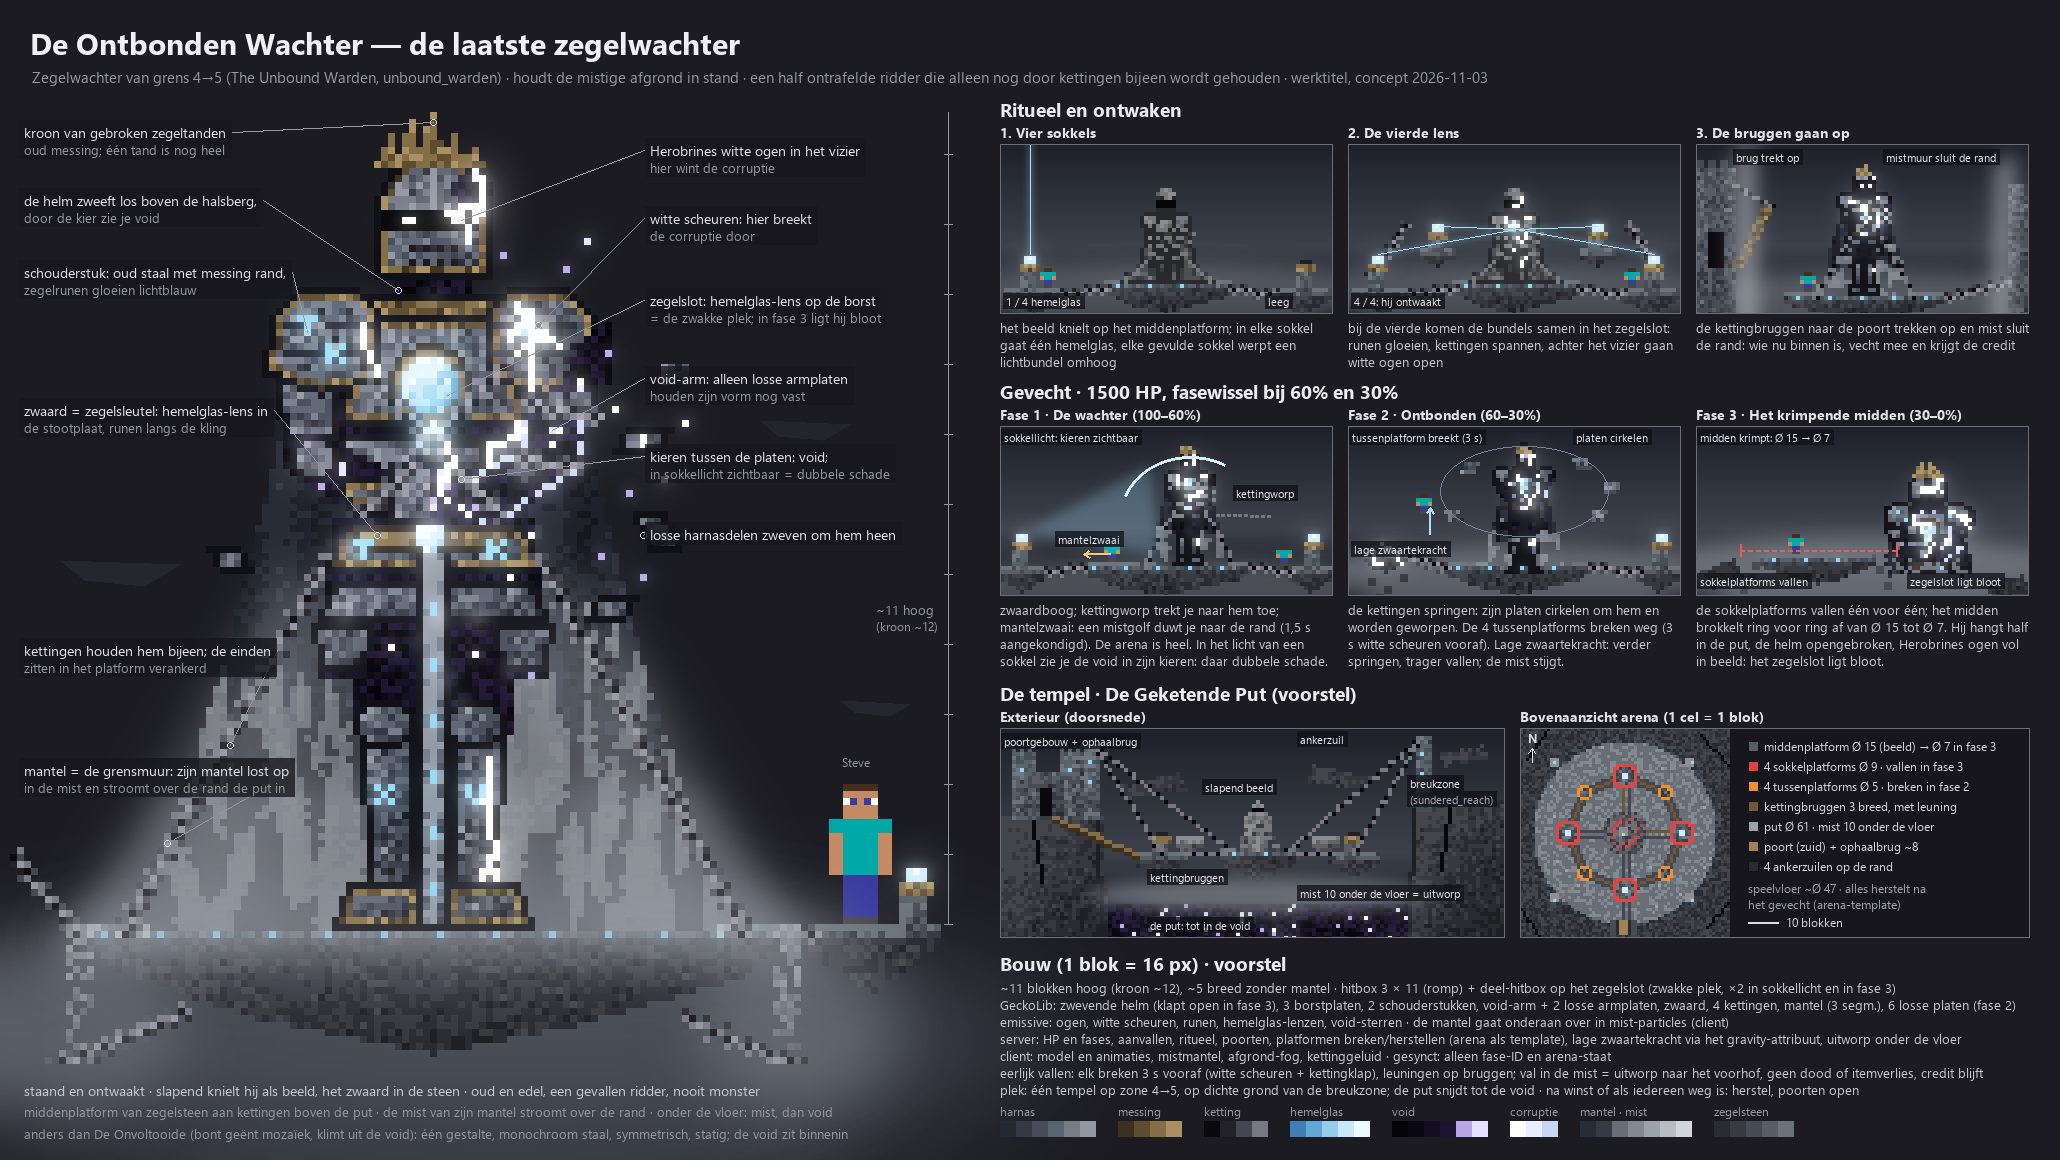
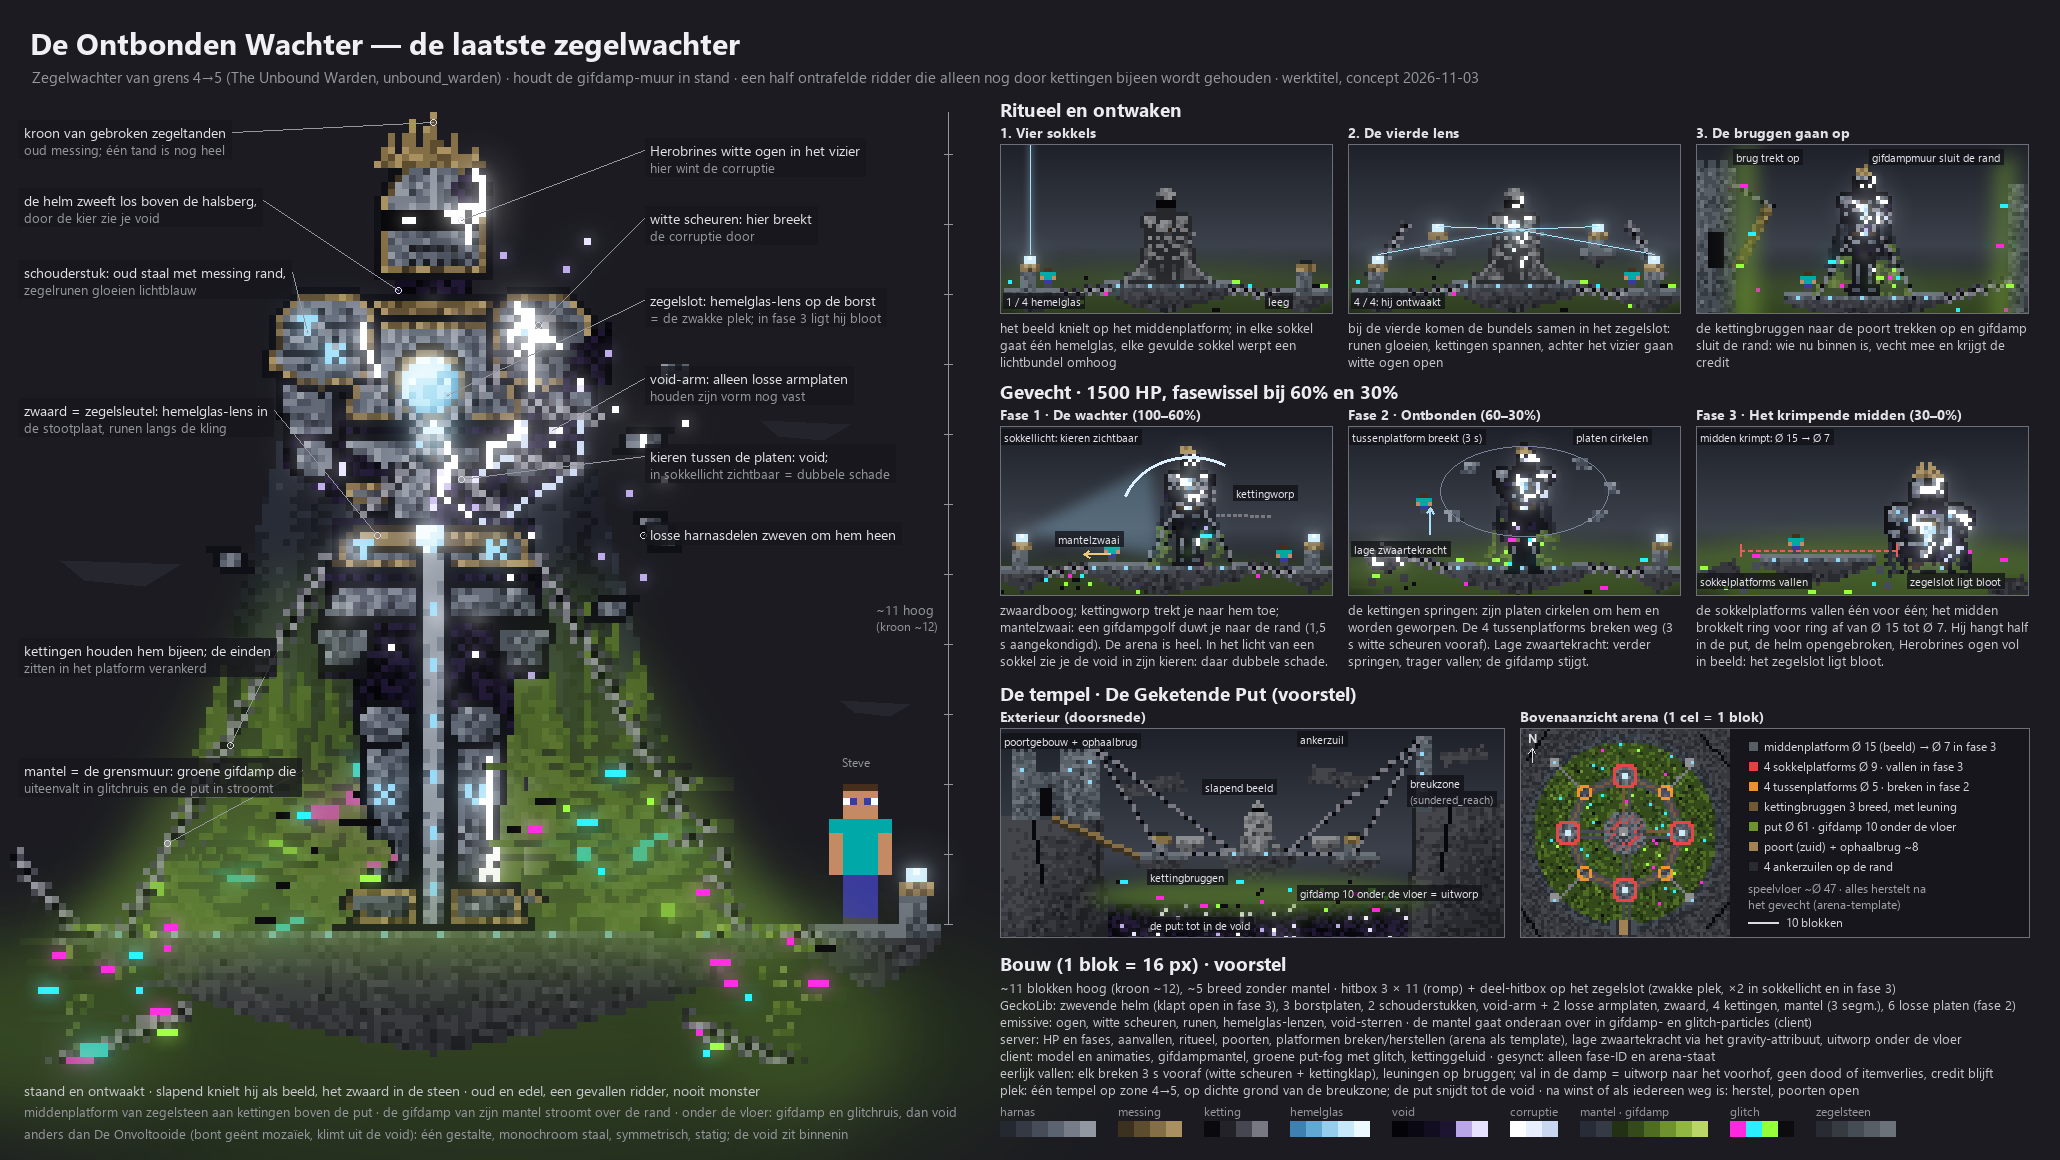
mobs: seal warden 4-5 plate follows the poison-to-glitch wall
Docs only. The Unbound Warden's mantle and pit now use the green
poison mist that breaks into glitch noise, as the phase 1 wall does.

Claude-Session: https://claude.ai/code/session_0189gpr1JxirANbocpQ9xxZN

diff --git a/docs/design/fase-4-zegelwachters-concept.md b/docs/design/fase-4-zegelwachters-concept.md
@@ -49,4 +49,4 @@
 | 1→2 | **De Sluierwachter** (`the_veil_warden`) | ![](img/zegelwachter-grens1-2-de-sluierwachter.png) | gevallen mistridder ~9,5 blok, sluiermantel = mist, lantaarn met zielkristal; fasen: zwaard/lantaarn → hij wordt de mist (alleen in sokkellicht vast) → sluier gescheurd, middenvloer stort in. Tempel: Sluierklooster half verzonken in een droge geul van `withered_expanse`, binnenhof 31×31 |
 | 2→3 | **De Zonnewachter** (`sun_warden`) | ![](img/zegelwachter-grens2-3-de-zonnewachter.png) | vierarmige zandstenen schildwacht ~11 blok, gebroken zonneschijf, glaive van zonnesteen; fasen: de wacht → duinen stijgen, zuilen storten in, sokkel geeft dauwgolf → stormmuur kruipt naar binnen (r 15 → 8). Tempel: uitgehouwen in een kloofwand, arena Ø 31 op de kloofbodem |
 | 3→4 | **De Asgezworene** (`ashsworn`) | ![](img/zegelwachter-grens3-4-de-asgezworene.png) | zwartgeblakerde bronzen koning ~11 blok, lavazwaard, lege bronkruik (het gestolen water); fasen: aswolk (bellen rond de sokkels) → lavakanalen, koudlavabruggen bij de sokkels → het water breekt in (stoom, glad). Tempel van de Gebroken Bron: op de rand van een hoefijzerkloof (`steam_fens` → `verdant_falls`), arena Ø 31 |
-| 4→5 | **De Ontbonden Wachter** (`unbound_warden`) | ![](img/zegelwachter-grens4-5-de-ontbonden-wachter.png) | half ontrafelde ridder ~11 blok, door kettingen bijeen, void in de kieren, hemelglaslens als zegelslot; fasen: de wachter → platen cirkelen, tussenplatforms breken (3 s vooraf), lage zwaartekracht → sokkelplatforms vallen, midden krimpt Ø 15 → 7. Tempel De Geketende Put: platforms aan kettingen in een zelf uitgesneden put tot de void in de breukzone |
+| 4→5 | **De Ontbonden Wachter** (`unbound_warden`) | ![](img/zegelwachter-grens4-5-de-ontbonden-wachter.png) | half ontrafelde ridder ~11 blok, door kettingen bijeen, void in de kieren, hemelglaslens als zegelslot; fasen: de wachter → platen cirkelen, tussenplatforms breken (3 s vooraf), lage zwaartekracht → sokkelplatforms vallen, midden krimpt Ø 15 → 7. Tempel De Geketende Put: platforms aan kettingen in een zelf uitgesneden put tot de void in de breukzone; mantel en put: groene gifdamp die uiteenvalt in glitchruis |
